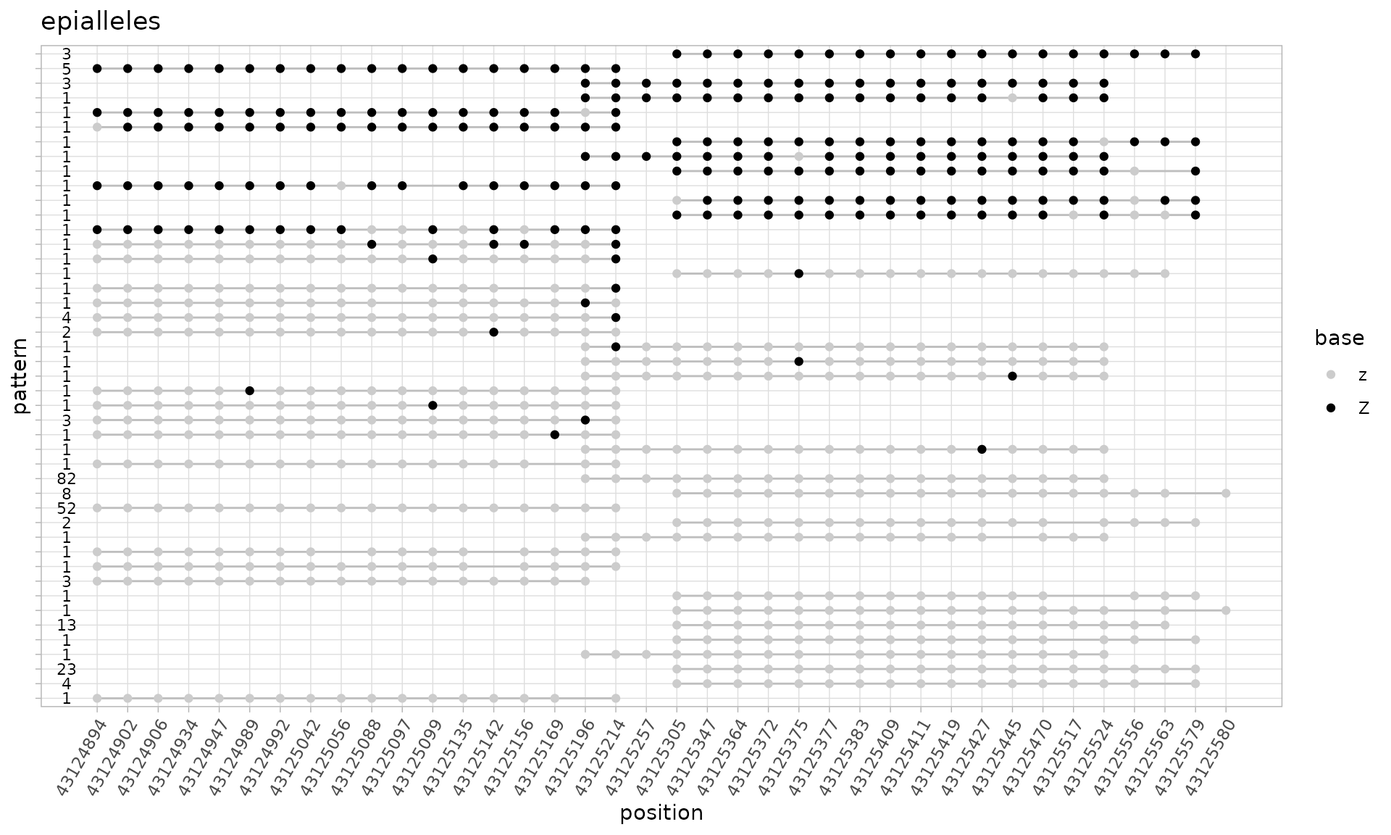
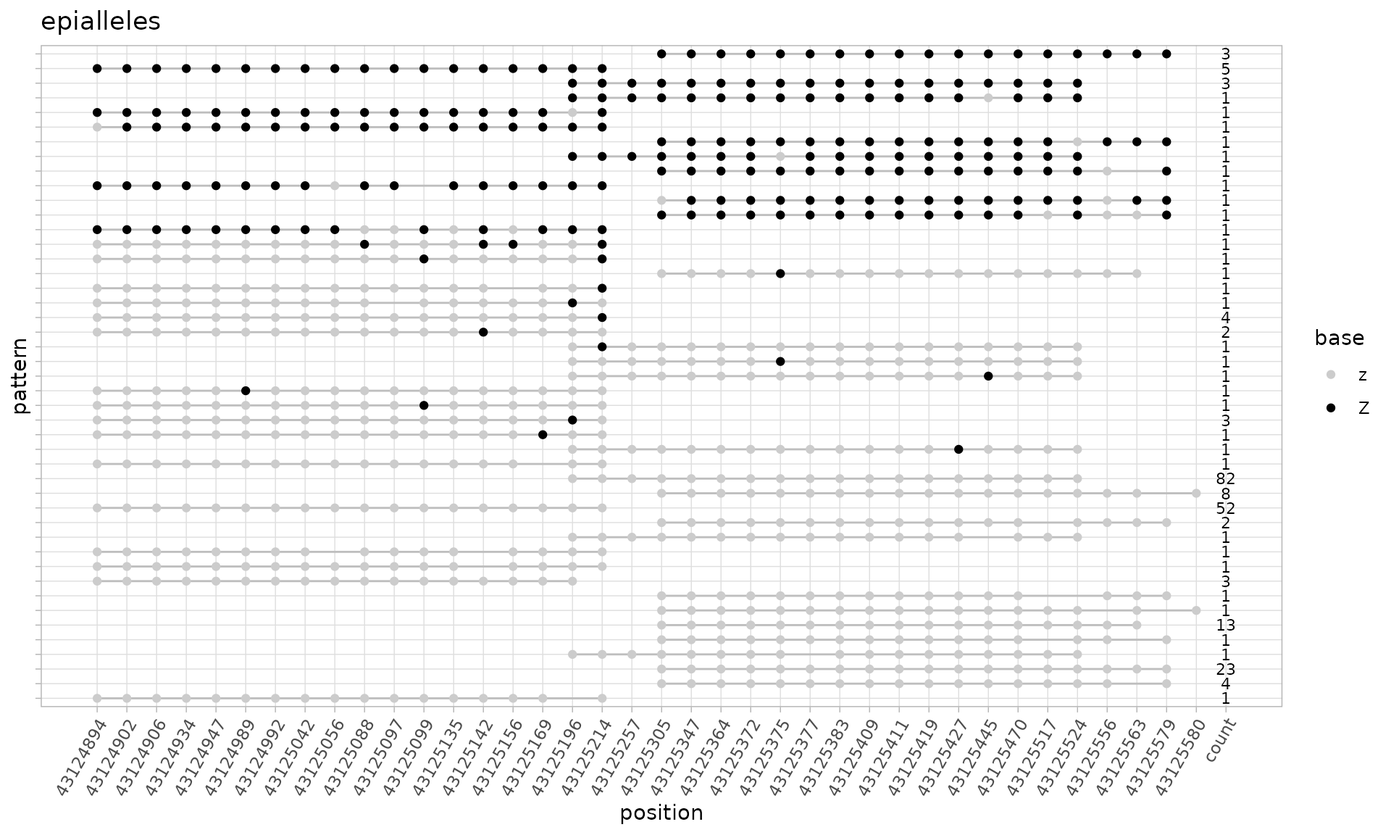
Built site for epialleleR: 1.3.6@3f7ed50

diff --git a/articles/epialleleR.html b/articles/epialleleR.html
@@ -215,7 +215,7 @@
 
 <span class="va">capture.bam</span> <span class="op">&lt;-</span> <span class="fu"><a href="https://rdrr.io/r/base/system.file.html" class="external-link">system.file</a></span><span class="op">(</span><span class="st">"extdata"</span>, <span class="st">"capture.bam"</span>, package<span class="op">=</span><span class="st">"epialleleR"</span><span class="op">)</span>
 <span class="va">bam.data</span>    <span class="op">&lt;-</span> <span class="fu"><a href="../reference/preprocessBam.html">preprocessBam</a></span><span class="op">(</span><span class="va">capture.bam</span><span class="op">)</span>
-<span class="co">#&gt; Reading BAM file [0.027s]</span></code></pre></div>
+<span class="co">#&gt; Reading BAM file [0.038s]</span></code></pre></div>
 </div>
 <div class="section level3">
 <h3 id="making-cytosine-reports">Making cytosine reports<a class="anchor" aria-label="anchor" href="#making-cytosine-reports"></a>
@@ -228,7 +228,7 @@
 <span class="va">cg.vef.report</span> <span class="op">&lt;-</span> <span class="fu"><a href="../reference/generateCytosineReport.html">generateCytosineReport</a></span><span class="op">(</span><span class="va">bam.data</span><span class="op">)</span>
 <span class="co">#&gt; Already preprocessed BAM supplied as an input. Options 'min.mapq', 'min.baseq', 'skip.duplicates' and 'nthreads' will have no effect.</span>
 <span class="co">#&gt; Thresholding reads [0.001s]</span>
-<span class="co">#&gt; Preparing cytosine report [0.016s]</span>
+<span class="co">#&gt; Preparing cytosine report [0.020s]</span>
 <span class="fu"><a href="https://rdrr.io/r/utils/head.html" class="external-link">head</a></span><span class="op">(</span><span class="va">cg.vef.report</span><span class="op">[</span><span class="fu"><a href="https://rdrr.io/r/base/order.html" class="external-link">order</a></span><span class="op">(</span><span class="va">meth</span><span class="op">+</span><span class="va">unmeth</span>, decreasing<span class="op">=</span><span class="cn">TRUE</span><span class="op">)</span><span class="op">]</span><span class="op">)</span>
 <span class="co">#&gt;    rname strand      pos context meth unmeth</span>
 <span class="co">#&gt; 1: chr17      + 61864475      CG    7      9</span>
@@ -241,7 +241,7 @@
 <span class="co"># CpG cytosine report</span>
 <span class="va">cg.report</span> <span class="op">&lt;-</span> <span class="fu"><a href="../reference/generateCytosineReport.html">generateCytosineReport</a></span><span class="op">(</span><span class="va">bam.data</span>, threshold.reads<span class="op">=</span><span class="cn">FALSE</span><span class="op">)</span>
 <span class="co">#&gt; Already preprocessed BAM supplied as an input. Options 'min.mapq', 'min.baseq', 'skip.duplicates' and 'nthreads' will have no effect.</span>
-<span class="co">#&gt; Preparing cytosine report [0.016s]</span>
+<span class="co">#&gt; Preparing cytosine report [0.020s]</span>
 <span class="fu"><a href="https://rdrr.io/r/utils/head.html" class="external-link">head</a></span><span class="op">(</span><span class="va">cg.report</span><span class="op">[</span><span class="fu"><a href="https://rdrr.io/r/base/order.html" class="external-link">order</a></span><span class="op">(</span><span class="va">meth</span><span class="op">+</span><span class="va">unmeth</span>, decreasing<span class="op">=</span><span class="cn">TRUE</span><span class="op">)</span><span class="op">]</span><span class="op">)</span>
 <span class="co">#&gt;    rname strand      pos context meth unmeth</span>
 <span class="co">#&gt; 1: chr17      + 61864475      CG    8      8</span>
@@ -255,7 +255,7 @@
 <span class="va">cx.report</span> <span class="op">&lt;-</span> <span class="fu"><a href="../reference/generateCytosineReport.html">generateCytosineReport</a></span><span class="op">(</span><span class="va">bam.data</span>, threshold.reads<span class="op">=</span><span class="cn">FALSE</span>,
                                     report.context<span class="op">=</span><span class="st">"CX"</span><span class="op">)</span>
 <span class="co">#&gt; Already preprocessed BAM supplied as an input. Options 'min.mapq', 'min.baseq', 'skip.duplicates' and 'nthreads' will have no effect.</span>
-<span class="co">#&gt; Preparing cytosine report [0.019s]</span>
+<span class="co">#&gt; Preparing cytosine report [0.023s]</span>
 <span class="fu"><a href="https://rdrr.io/r/utils/head.html" class="external-link">head</a></span><span class="op">(</span><span class="va">cx.report</span><span class="op">[</span><span class="fu"><a href="https://rdrr.io/r/base/order.html" class="external-link">order</a></span><span class="op">(</span><span class="va">meth</span><span class="op">+</span><span class="va">unmeth</span>, decreasing<span class="op">=</span><span class="cn">TRUE</span><span class="op">)</span><span class="op">]</span><span class="op">)</span>
 <span class="co">#&gt;    rname strand      pos context meth unmeth</span>
 <span class="co">#&gt; 1: chr17      + 61864338     CHG    1     25</span>
@@ -277,10 +277,10 @@
   bam<span class="op">=</span><span class="fu"><a href="https://rdrr.io/r/base/system.file.html" class="external-link">system.file</a></span><span class="op">(</span><span class="st">"extdata"</span>, <span class="st">"amplicon010meth.bam"</span>, package<span class="op">=</span><span class="st">"epialleleR"</span><span class="op">)</span>,
   bed<span class="op">=</span><span class="fu"><a href="https://rdrr.io/r/base/system.file.html" class="external-link">system.file</a></span><span class="op">(</span><span class="st">"extdata"</span>, <span class="st">"amplicon.bed"</span>, package<span class="op">=</span><span class="st">"epialleleR"</span><span class="op">)</span>
 <span class="op">)</span>
-<span class="co">#&gt; Reading BED file [0.053s]</span>
-<span class="co">#&gt; Reading BAM file [0.006s]</span>
-<span class="co">#&gt; Thresholding reads [0.000s]</span>
-<span class="co">#&gt; Preparing amplicon report [0.050s]</span>
+<span class="co">#&gt; Reading BED file [0.061s]</span>
+<span class="co">#&gt; Reading BAM file [0.007s]</span>
+<span class="co">#&gt; Thresholding reads [0.001s]</span>
+<span class="co">#&gt; Preparing amplicon report [0.058s]</span>
 <span class="va">amplicon.report</span>
 <span class="co">#&gt;    seqnames    start      end width strand amplicon nreads+ nreads-        VEF</span>
 <span class="co">#&gt; 1:    chr17 43125624 43126026   403      * CpG00-13       0     156 0.08333333</span>
@@ -295,10 +295,10 @@
   bam<span class="op">=</span><span class="fu"><a href="https://rdrr.io/r/base/system.file.html" class="external-link">system.file</a></span><span class="op">(</span><span class="st">"extdata"</span>, <span class="st">"capture.bam"</span>, package<span class="op">=</span><span class="st">"epialleleR"</span><span class="op">)</span>,
   bed<span class="op">=</span><span class="fu"><a href="https://rdrr.io/r/base/system.file.html" class="external-link">system.file</a></span><span class="op">(</span><span class="st">"extdata"</span>, <span class="st">"capture.bed"</span>, package<span class="op">=</span><span class="st">"epialleleR"</span><span class="op">)</span>
 <span class="op">)</span>
-<span class="co">#&gt; Reading BED file [0.037s]</span>
-<span class="co">#&gt; Reading BAM file [0.020s]</span>
-<span class="co">#&gt; Thresholding reads [0.001s]</span>
-<span class="co">#&gt; Preparing capture report [0.022s]</span>
+<span class="co">#&gt; Reading BED file [0.043s]</span>
+<span class="co">#&gt; Reading BAM file [0.024s]</span>
+<span class="co">#&gt; Thresholding reads [0.002s]</span>
+<span class="co">#&gt; Preparing capture report [0.025s]</span>
 <span class="fu"><a href="https://rdrr.io/r/utils/head.html" class="external-link">head</a></span><span class="op">(</span><span class="va">capture.report</span><span class="op">)</span>
 <span class="co">#&gt;    seqnames    start      end width strand     V4 nreads+ nreads-       VEF</span>
 <span class="co">#&gt; 1:     chr1  3067647  3069703  2057      * PRDM16       2       1 1.0000000</span>
@@ -314,10 +314,10 @@
   bed<span class="op">=</span><span class="fu"><a href="https://rdrr.io/r/base/system.file.html" class="external-link">system.file</a></span><span class="op">(</span><span class="st">"extdata"</span>, <span class="st">"capture.bed"</span>, package<span class="op">=</span><span class="st">"epialleleR"</span><span class="op">)</span>,
   bed.type<span class="op">=</span><span class="st">"capture"</span>
 <span class="op">)</span>
-<span class="co">#&gt; Reading BED file [0.012s]</span>
-<span class="co">#&gt; Reading BAM file [0.015s]</span>
-<span class="co">#&gt; Thresholding reads [0.002s]</span>
-<span class="co">#&gt; Preparing capture report [0.022s]</span>
+<span class="co">#&gt; Reading BED file [0.014s]</span>
+<span class="co">#&gt; Reading BAM file [0.024s]</span>
+<span class="co">#&gt; Thresholding reads [0.001s]</span>
+<span class="co">#&gt; Preparing capture report [0.026s]</span>
 <span class="fu"><a href="https://rdrr.io/r/base/identical.html" class="external-link">identical</a></span><span class="op">(</span><span class="va">capture.report</span>, <span class="va">bed.report</span><span class="op">)</span>
 <span class="co">#&gt; [1] TRUE</span></code></pre></div>
 </div>
@@ -332,8 +332,8 @@
   bam<span class="op">=</span><span class="fu"><a href="https://rdrr.io/r/base/system.file.html" class="external-link">system.file</a></span><span class="op">(</span><span class="st">"extdata"</span>, <span class="st">"amplicon010meth.bam"</span>, package<span class="op">=</span><span class="st">"epialleleR"</span><span class="op">)</span>,
   bed<span class="op">=</span><span class="fu">as</span><span class="op">(</span><span class="st">"chr17:43125200-43125600"</span>,<span class="st">"GRanges"</span><span class="op">)</span>
 <span class="op">)</span>
-<span class="co">#&gt; Reading BAM file [0.006s]</span>
-<span class="co">#&gt; Extracting methylation patterns [0.026s]</span>
+<span class="co">#&gt; Reading BAM file [0.009s]</span>
+<span class="co">#&gt; Extracting methylation patterns [0.029s]</span>
 
 <span class="co"># that many read pairs overlap genomic region of interest</span>
 <span class="fu"><a href="https://rdrr.io/r/base/nrow.html" class="external-link">nrow</a></span><span class="op">(</span><span class="va">patterns</span><span class="op">)</span>
@@ -354,7 +354,7 @@
 <span class="va">plot.data</span> <span class="op">&lt;-</span> <span class="fu">data.table</span><span class="fu">::</span><span class="fu"><a href="https://Rdatatable.gitlab.io/data.table/reference/melt.data.table.html" class="external-link">melt.data.table</a></span><span class="op">(</span><span class="va">patterns.summary</span>,
   measure.vars<span class="op">=</span><span class="va">base.positions</span>, variable.name<span class="op">=</span><span class="st">"pos"</span>, value.name<span class="op">=</span><span class="st">"base"</span><span class="op">)</span>
 
-<span class="co"># categorical positions, all patterns sorted by beta, with counts on the left</span>
+<span class="co"># categorical positions, all patterns sorted by beta, with counts on the right</span>
 <span class="kw">if</span> <span class="op">(</span><span class="kw"><a href="https://rdrr.io/r/base/library.html" class="external-link">require</a></span><span class="op">(</span><span class="st"><a href="https://ggplot2.tidyverse.org" class="external-link">"ggplot2"</a></span>, quietly<span class="op">=</span><span class="cn">TRUE</span><span class="op">)</span> <span class="op">&amp;</span> <span class="kw"><a href="https://rdrr.io/r/base/library.html" class="external-link">require</a></span><span class="op">(</span><span class="st"><a href="https://github.com/lionel-/ggstance" class="external-link">"ggstance"</a></span>, quietly<span class="op">=</span><span class="cn">TRUE</span><span class="op">)</span><span class="op">)</span> <span class="op">{</span>
   <span class="fu"><a href="https://ggplot2.tidyverse.org/reference/ggplot.html" class="external-link">ggplot</a></span><span class="op">(</span><span class="fu"><a href="https://rdrr.io/r/stats/na.fail.html" class="external-link">na.omit</a></span><span class="op">(</span><span class="va">plot.data</span><span class="op">)</span>,
          <span class="fu"><a href="https://ggplot2.tidyverse.org/reference/aes.html" class="external-link">aes</a></span><span class="op">(</span>x<span class="op">=</span><span class="va">pos</span>, y<span class="op">=</span><span class="fu"><a href="https://rdrr.io/r/stats/reorder.factor.html" class="external-link">reorder</a></span><span class="op">(</span><span class="va">pattern</span>,<span class="va">beta</span><span class="op">)</span>,
@@ -368,7 +368,7 @@
     <span class="fu"><a href="https://ggplot2.tidyverse.org/reference/labs.html" class="external-link">labs</a></span><span class="op">(</span>x<span class="op">=</span><span class="st">"position"</span>, y<span class="op">=</span><span class="st">"pattern"</span>, title<span class="op">=</span><span class="st">"epialleles"</span>, color<span class="op">=</span><span class="st">"base"</span><span class="op">)</span> <span class="op">+</span>
     <span class="fu"><a href="https://ggplot2.tidyverse.org/reference/scale_discrete.html" class="external-link">scale_x_discrete</a></span><span class="op">(</span>expand<span class="op">=</span><span class="fu"><a href="https://rdrr.io/r/base/c.html" class="external-link">c</a></span><span class="op">(</span><span class="fl">0.05</span>,<span class="fl">0</span><span class="op">)</span><span class="op">)</span> <span class="op">+</span>
     <span class="fu"><a href="https://ggplot2.tidyverse.org/reference/geom_text.html" class="external-link">geom_text</a></span><span class="op">(</span>inherit.aes<span class="op">=</span><span class="cn">FALSE</span>, data<span class="op">=</span><span class="va">patterns.summary</span>,
-              mapping<span class="op">=</span><span class="fu"><a href="https://ggplot2.tidyverse.org/reference/aes.html" class="external-link">aes</a></span><span class="op">(</span>x<span class="op">=</span><span class="fl">0</span>, y<span class="op">=</span><span class="va">pattern</span>, label<span class="op">=</span><span class="va">N</span><span class="op">)</span>, size<span class="op">=</span><span class="fl">3</span><span class="op">)</span>
+              mapping<span class="op">=</span><span class="fu"><a href="https://ggplot2.tidyverse.org/reference/aes.html" class="external-link">aes</a></span><span class="op">(</span>x<span class="op">=</span><span class="st">"count"</span>, y<span class="op">=</span><span class="va">pattern</span>, label<span class="op">=</span><span class="va">N</span><span class="op">)</span>, size<span class="op">=</span><span class="fl">3</span><span class="op">)</span>
 <span class="op">}</span>
 <span class="co">#&gt; </span>
 <span class="co">#&gt; Attaching package: 'ggstance'</span>
@@ -440,9 +440,9 @@
   bed<span class="op">=</span><span class="fu"><a href="https://rdrr.io/r/base/system.file.html" class="external-link">system.file</a></span><span class="op">(</span><span class="st">"extdata"</span>, <span class="st">"amplicon.bed"</span>, package<span class="op">=</span><span class="st">"epialleleR"</span><span class="op">)</span>,
   bed.rows<span class="op">=</span><span class="cn">NULL</span>
 <span class="op">)</span>
-<span class="co">#&gt; Reading BED file [0.010s]</span>
-<span class="co">#&gt; Reading BAM file [0.009s]</span>
-<span class="co">#&gt; Computing ECDFs for within- and out-of-context per-read beta values [0.013s]</span>
+<span class="co">#&gt; Reading BED file [0.011s]</span>
+<span class="co">#&gt; Reading BAM file [0.005s]</span>
+<span class="co">#&gt; Computing ECDFs for within- and out-of-context per-read beta values [0.015s]</span>
 
 <span class="co"># there are 5 items in amplicon.ecdfs, let's plot all of them</span>
 <span class="fu"><a href="https://rdrr.io/r/graphics/par.html" class="external-link">par</a></span><span class="op">(</span>mfrow<span class="op">=</span><span class="fu"><a href="https://rdrr.io/r/base/c.html" class="external-link">c</a></span><span class="op">(</span><span class="fl">1</span>,<span class="fu"><a href="https://rdrr.io/r/base/length.html" class="external-link">length</a></span><span class="op">(</span><span class="va">amplicon.ecdfs</span><span class="op">)</span><span class="op">)</span><span class="op">)</span>
@@ -517,11 +517,11 @@
   <span class="co"># to convert them internally</span>
   vcf.style<span class="op">=</span><span class="st">"NCBI"</span>
 <span class="op">)</span>
-<span class="co">#&gt; Reading BED file [0.010s]</span>
-<span class="co">#&gt; Reading VCF file [0.954s]</span>
-<span class="co">#&gt; Reading BAM file [0.005s]</span>
-<span class="co">#&gt; Thresholding reads [0.000s]</span>
-<span class="co">#&gt; Extracting base frequences [0.053s]</span>
+<span class="co">#&gt; Reading BED file [0.012s]</span>
+<span class="co">#&gt; Reading VCF file [0.958s]</span>
+<span class="co">#&gt; Reading BAM file [0.012s]</span>
+<span class="co">#&gt; Thresholding reads [0.001s]</span>
+<span class="co">#&gt; Extracting base frequences [0.063s]</span>
 
 <span class="co"># NA values are shown for the C-&gt;T variants on the "+" and G-&gt;A on the "-"</span>
 <span class="co"># strands, because bisulfite conversion makes their counting impossible</span>
@@ -579,11 +579,6 @@
 <span class="co"># and finally, let's plot methylation patterns overlapping one of the most</span>
 <span class="co"># covered SNPs in the methylation capture test data set - rs573296191</span>
 <span class="co"># (chr17:61864584) in BRIP1 gene</span>
-<span class="va">vcf.report</span><span class="op">[</span><span class="fu"><a href="https://rdrr.io/r/base/order.html" class="external-link">order</a></span><span class="op">(</span><span class="op">-</span><span class="va">SumRef</span><span class="op">-</span><span class="va">SumAlt</span><span class="op">)</span><span class="op">]</span><span class="op">[</span><span class="fl">1</span><span class="op">]</span>
-<span class="co">#&gt;           name seqnames    range REF ALT M+Ref U+Ref M-Ref U-Ref M+Alt U+Alt M-Alt U-Alt SumRef</span>
-<span class="co">#&gt; 1: rs186775935    chr17 43125629   G   T     0     0    20   195     0     0     0     0    215</span>
-<span class="co">#&gt;    SumAlt FEp+ FEp-</span>
-<span class="co">#&gt; 1:      0    1    1</span>
 <span class="va">brip1.patterns</span> <span class="op">&lt;-</span> <span class="fu"><a href="../reference/extractPatterns.html">extractPatterns</a></span><span class="op">(</span>
   bam<span class="op">=</span><span class="fu"><a href="https://rdrr.io/r/base/system.file.html" class="external-link">system.file</a></span><span class="op">(</span><span class="st">"extdata"</span>, <span class="st">"capture.bam"</span>, package<span class="op">=</span><span class="st">"epialleleR"</span><span class="op">)</span>,
   bed<span class="op">=</span><span class="fu">as</span><span class="op">(</span><span class="st">"chr17:61864583-61864585"</span>, <span class="st">"GRanges"</span><span class="op">)</span>,

diff --git a/reference/generateBedReport.html b/reference/generateBedReport.html
@@ -286,13 +286,13 @@ the seqlevels style.</p></div>
 <span class="r-in">  <span class="va">amplicon.report</span> <span class="op">&lt;-</span> <span class="fu">generateAmpliconReport</span><span class="op">(</span>bam<span class="op">=</span><span class="va">amplicon.bam</span>,</span>
 <span class="r-in">                                            bed<span class="op">=</span><span class="va">amplicon.bed</span><span class="op">)</span></span>
 <span class="r-msg co"><span class="r-pr">#&gt;</span> Reading BED file</span>
-<span class="r-msg co"><span class="r-pr">#&gt;</span>  [0.011s]</span>
+<span class="r-msg co"><span class="r-pr">#&gt;</span>  [0.012s]</span>
 <span class="r-msg co"><span class="r-pr">#&gt;</span> Reading BAM file</span>
-<span class="r-msg co"><span class="r-pr">#&gt;</span>  [0.007s]</span>
+<span class="r-msg co"><span class="r-pr">#&gt;</span>  [0.008s]</span>
 <span class="r-msg co"><span class="r-pr">#&gt;</span> Thresholding reads</span>
 <span class="r-msg co"><span class="r-pr">#&gt;</span>  [0.001s]</span>
 <span class="r-msg co"><span class="r-pr">#&gt;</span> Preparing amplicon report</span>
-<span class="r-msg co"><span class="r-pr">#&gt;</span>  [0.021s]</span>
+<span class="r-msg co"><span class="r-pr">#&gt;</span>  [0.023s]</span>
 <span class="r-in">  </span>
 <span class="r-in">  <span class="co"># capture NGS</span></span>
 <span class="r-in">  <span class="va">capture.bam</span>    <span class="op">&lt;-</span> <span class="fu"><a href="https://rdrr.io/r/base/system.file.html" class="external-link">system.file</a></span><span class="op">(</span><span class="st">"extdata"</span>, <span class="st">"capture.bam"</span>,</span>
@@ -301,26 +301,26 @@ the seqlevels style.</p></div>
 <span class="r-in">                                package<span class="op">=</span><span class="st">"epialleleR"</span><span class="op">)</span></span>
 <span class="r-in">  <span class="va">capture.report</span> <span class="op">&lt;-</span> <span class="fu">generateCaptureReport</span><span class="op">(</span>bam<span class="op">=</span><span class="va">capture.bam</span>, bed<span class="op">=</span><span class="va">capture.bed</span><span class="op">)</span></span>
 <span class="r-msg co"><span class="r-pr">#&gt;</span> Reading BED file</span>
-<span class="r-msg co"><span class="r-pr">#&gt;</span>  [0.011s]</span>
+<span class="r-msg co"><span class="r-pr">#&gt;</span>  [0.012s]</span>
 <span class="r-msg co"><span class="r-pr">#&gt;</span> Reading BAM file</span>
-<span class="r-msg co"><span class="r-pr">#&gt;</span>  [0.020s]</span>
+<span class="r-msg co"><span class="r-pr">#&gt;</span>  [0.023s]</span>
 <span class="r-msg co"><span class="r-pr">#&gt;</span> Thresholding reads</span>
 <span class="r-msg co"><span class="r-pr">#&gt;</span>  [0.001s]</span>
 <span class="r-msg co"><span class="r-pr">#&gt;</span> Preparing capture report</span>
-<span class="r-msg co"><span class="r-pr">#&gt;</span>  [0.019s]</span>
+<span class="r-msg co"><span class="r-pr">#&gt;</span>  [0.021s]</span>
 <span class="r-in">  </span>
 <span class="r-in">  <span class="co"># generateAmpliconReport and generateCaptureReport are just aliases</span></span>
 <span class="r-in">  <span class="co"># of the generateBedReport</span></span>
 <span class="r-in">  <span class="va">bed.report</span> <span class="op">&lt;-</span> <span class="fu">generateBedReport</span><span class="op">(</span>bam<span class="op">=</span><span class="va">capture.bam</span>, bed<span class="op">=</span><span class="va">capture.bed</span>,</span>
 <span class="r-in">                                  bed.type<span class="op">=</span><span class="st">"capture"</span><span class="op">)</span></span>
 <span class="r-msg co"><span class="r-pr">#&gt;</span> Reading BED file</span>
-<span class="r-msg co"><span class="r-pr">#&gt;</span>  [0.011s]</span>
+<span class="r-msg co"><span class="r-pr">#&gt;</span>  [0.012s]</span>
 <span class="r-msg co"><span class="r-pr">#&gt;</span> Reading BAM file</span>
-<span class="r-msg co"><span class="r-pr">#&gt;</span>  [0.016s]</span>
+<span class="r-msg co"><span class="r-pr">#&gt;</span>  [0.023s]</span>
 <span class="r-msg co"><span class="r-pr">#&gt;</span> Thresholding reads</span>
-<span class="r-msg co"><span class="r-pr">#&gt;</span>  [0.001s]</span>
+<span class="r-msg co"><span class="r-pr">#&gt;</span>  [0.002s]</span>
 <span class="r-msg co"><span class="r-pr">#&gt;</span> Preparing capture report</span>
-<span class="r-msg co"><span class="r-pr">#&gt;</span>  [0.020s]</span>
+<span class="r-msg co"><span class="r-pr">#&gt;</span>  [0.022s]</span>
 <span class="r-in">  <span class="fu"><a href="https://rdrr.io/r/base/identical.html" class="external-link">identical</a></span><span class="op">(</span><span class="va">capture.report</span>, <span class="va">bed.report</span><span class="op">)</span></span>
 <span class="r-out co"><span class="r-pr">#&gt;</span> [1] TRUE</span>
 </code></pre></div>

diff --git a/reference/generateCytosineReport.html b/reference/generateCytosineReport.html
@@ -209,19 +209,19 @@ sample data.</p></div>
 <span class="r-in">  <span class="co"># CpG report with thresholding</span></span>
 <span class="r-in">  <span class="va">cg.report</span> <span class="op">&lt;-</span> <span class="fu">generateCytosineReport</span><span class="op">(</span><span class="va">capture.bam</span><span class="op">)</span></span>
 <span class="r-msg co"><span class="r-pr">#&gt;</span> Reading BAM file</span>
-<span class="r-msg co"><span class="r-pr">#&gt;</span>  [0.017s]</span>
+<span class="r-msg co"><span class="r-pr">#&gt;</span>  [0.022s]</span>
 <span class="r-msg co"><span class="r-pr">#&gt;</span> Thresholding reads</span>
-<span class="r-msg co"><span class="r-pr">#&gt;</span>  [0.001s]</span>
+<span class="r-msg co"><span class="r-pr">#&gt;</span>  [0.002s]</span>
 <span class="r-msg co"><span class="r-pr">#&gt;</span> Preparing cytosine report</span>
-<span class="r-msg co"><span class="r-pr">#&gt;</span>  [0.016s]</span>
+<span class="r-msg co"><span class="r-pr">#&gt;</span>  [0.018s]</span>
 <span class="r-in">  </span>
 <span class="r-in">  <span class="co"># CX report without thresholding</span></span>
 <span class="r-in">  <span class="va">cx.report</span> <span class="op">&lt;-</span> <span class="fu">generateCytosineReport</span><span class="op">(</span><span class="va">capture.bam</span>, threshold.reads<span class="op">=</span><span class="cn">FALSE</span>,</span>
 <span class="r-in">               report.context<span class="op">=</span><span class="st">"CX"</span><span class="op">)</span></span>
 <span class="r-msg co"><span class="r-pr">#&gt;</span> Reading BAM file</span>
-<span class="r-msg co"><span class="r-pr">#&gt;</span>  [0.016s]</span>
+<span class="r-msg co"><span class="r-pr">#&gt;</span>  [0.022s]</span>
 <span class="r-msg co"><span class="r-pr">#&gt;</span> Preparing cytosine report</span>
-<span class="r-msg co"><span class="r-pr">#&gt;</span>  [0.019s]</span>
+<span class="r-msg co"><span class="r-pr">#&gt;</span>  [0.023s]</span>
 </code></pre></div>
     </div>
   </div>

diff --git a/reference/generateBedEcdf.html b/reference/generateBedEcdf.html
@@ -196,11 +196,11 @@ usage and sample data.</p></div>
 <span class="r-in">  <span class="va">amplicon.ecdfs</span> <span class="op">&lt;-</span> <span class="fu">generateBedEcdf</span><span class="op">(</span>bam<span class="op">=</span><span class="va">amplicon.bam</span>, bed<span class="op">=</span><span class="va">amplicon.bed</span>,</span>
 <span class="r-in">                                    bed.rows<span class="op">=</span><span class="cn">NULL</span><span class="op">)</span></span>
 <span class="r-msg co"><span class="r-pr">#&gt;</span> Reading BED file</span>
-<span class="r-msg co"><span class="r-pr">#&gt;</span>  [0.032s]</span>
+<span class="r-msg co"><span class="r-pr">#&gt;</span>  [0.035s]</span>
 <span class="r-msg co"><span class="r-pr">#&gt;</span> Reading BAM file</span>
 <span class="r-msg co"><span class="r-pr">#&gt;</span>  [0.006s]</span>
 <span class="r-msg co"><span class="r-pr">#&gt;</span> Computing ECDFs for within- and out-of-context per-read beta values</span>
-<span class="r-msg co"><span class="r-pr">#&gt;</span>  [0.035s]</span>
+<span class="r-msg co"><span class="r-pr">#&gt;</span>  [0.038s]</span>
 <span class="r-in">  </span>
 <span class="r-in">  <span class="co"># there are 5 items in amplicon.ecdfs, let's plot them all</span></span>
 <span class="r-in">  <span class="fu"><a href="https://rdrr.io/r/graphics/par.html" class="external-link">par</a></span><span class="op">(</span>mfrow<span class="op">=</span><span class="fu"><a href="https://rdrr.io/r/base/c.html" class="external-link">c</a></span><span class="op">(</span><span class="fl">1</span>,<span class="fu"><a href="https://rdrr.io/r/base/length.html" class="external-link">length</a></span><span class="op">(</span><span class="va">amplicon.ecdfs</span><span class="op">)</span><span class="op">)</span><span class="op">)</span></span>

diff --git a/reference/generateVcfReport.html b/reference/generateVcfReport.html
@@ -250,15 +250,15 @@ the seqlevels style.</p></div>
 <span class="r-in">  <span class="va">vcf.report</span> <span class="op">&lt;-</span> <span class="fu">generateVcfReport</span><span class="op">(</span>bam<span class="op">=</span><span class="va">capture.bam</span>, bed<span class="op">=</span><span class="va">capture.bed</span>,</span>
 <span class="r-in">                                  vcf<span class="op">=</span><span class="va">capture.vcf</span><span class="op">)</span></span>
 <span class="r-msg co"><span class="r-pr">#&gt;</span> Reading BED file</span>
-<span class="r-msg co"><span class="r-pr">#&gt;</span>  [0.012s]</span>
+<span class="r-msg co"><span class="r-pr">#&gt;</span>  [0.015s]</span>
 <span class="r-msg co"><span class="r-pr">#&gt;</span> Reading VCF file</span>
-<span class="r-msg co"><span class="r-pr">#&gt;</span>  [6.151s]</span>
+<span class="r-msg co"><span class="r-pr">#&gt;</span>  [6.889s]</span>
 <span class="r-msg co"><span class="r-pr">#&gt;</span> Reading BAM file</span>
-<span class="r-msg co"><span class="r-pr">#&gt;</span>  [0.019s]</span>
+<span class="r-msg co"><span class="r-pr">#&gt;</span>  [0.018s]</span>
 <span class="r-msg co"><span class="r-pr">#&gt;</span> Thresholding reads</span>
 <span class="r-msg co"><span class="r-pr">#&gt;</span>  [0.002s]</span>
 <span class="r-msg co"><span class="r-pr">#&gt;</span> Extracting base frequences</span>
-<span class="r-msg co"><span class="r-pr">#&gt;</span>  [0.130s]</span>
+<span class="r-msg co"><span class="r-pr">#&gt;</span>  [0.146s]</span>
 </code></pre></div>
     </div>
   </div>

diff --git a/reference/extractPatterns.html b/reference/extractPatterns.html
@@ -203,11 +203,11 @@ description of usage and sample data.</p></div>
 <span class="r-in">  <span class="co"># let's get our patterns</span></span>
 <span class="r-in">  <span class="va">patterns</span> <span class="op">&lt;-</span> <span class="fu">extractPatterns</span><span class="op">(</span>bam<span class="op">=</span><span class="va">amplicon.bam</span>, bed<span class="op">=</span><span class="va">amplicon.bed</span>, bed.row<span class="op">=</span><span class="fl">3</span><span class="op">)</span></span>
 <span class="r-msg co"><span class="r-pr">#&gt;</span> Reading BED file</span>
-<span class="r-msg co"><span class="r-pr">#&gt;</span>  [0.052s]</span>
+<span class="r-msg co"><span class="r-pr">#&gt;</span>  [0.059s]</span>
 <span class="r-msg co"><span class="r-pr">#&gt;</span> Reading BAM file</span>
-<span class="r-msg co"><span class="r-pr">#&gt;</span>  [0.018s]</span>
+<span class="r-msg co"><span class="r-pr">#&gt;</span>  [0.021s]</span>
 <span class="r-msg co"><span class="r-pr">#&gt;</span> Extracting methylation patterns</span>
-<span class="r-msg co"><span class="r-pr">#&gt;</span>  [0.030s]</span>
+<span class="r-msg co"><span class="r-pr">#&gt;</span>  [0.032s]</span>
 <span class="r-in">  <span class="fu"><a href="https://rdrr.io/r/base/nrow.html" class="external-link">nrow</a></span><span class="op">(</span><span class="va">patterns</span><span class="op">)</span>  <span class="co"># read pairs overlap genomic region of interest</span></span>
 <span class="r-out co"><span class="r-pr">#&gt;</span> [1] 238</span>
 <span class="r-in">  </span>

diff --git a/reference/preprocessBam.html b/reference/preprocessBam.html
@@ -134,7 +134,7 @@ and <a href="https://support.illumina.com/content/dam/illumina-support/help/Illu
     <div class="sourceCode"><pre class="sourceCode r"><code><span class="r-in">  <span class="va">capture.bam</span> <span class="op">&lt;-</span> <span class="fu"><a href="https://rdrr.io/r/base/system.file.html" class="external-link">system.file</a></span><span class="op">(</span><span class="st">"extdata"</span>, <span class="st">"capture.bam"</span>, package<span class="op">=</span><span class="st">"epialleleR"</span><span class="op">)</span></span>
 <span class="r-in">  <span class="va">bam.data</span>    <span class="op">&lt;-</span> <span class="fu">preprocessBam</span><span class="op">(</span><span class="va">capture.bam</span><span class="op">)</span></span>
 <span class="r-msg co"><span class="r-pr">#&gt;</span> Reading BAM file</span>
-<span class="r-msg co"><span class="r-pr">#&gt;</span>  [0.016s]</span>
+<span class="r-msg co"><span class="r-pr">#&gt;</span>  [0.020s]</span>
 </code></pre></div>
     </div>
   </div>
